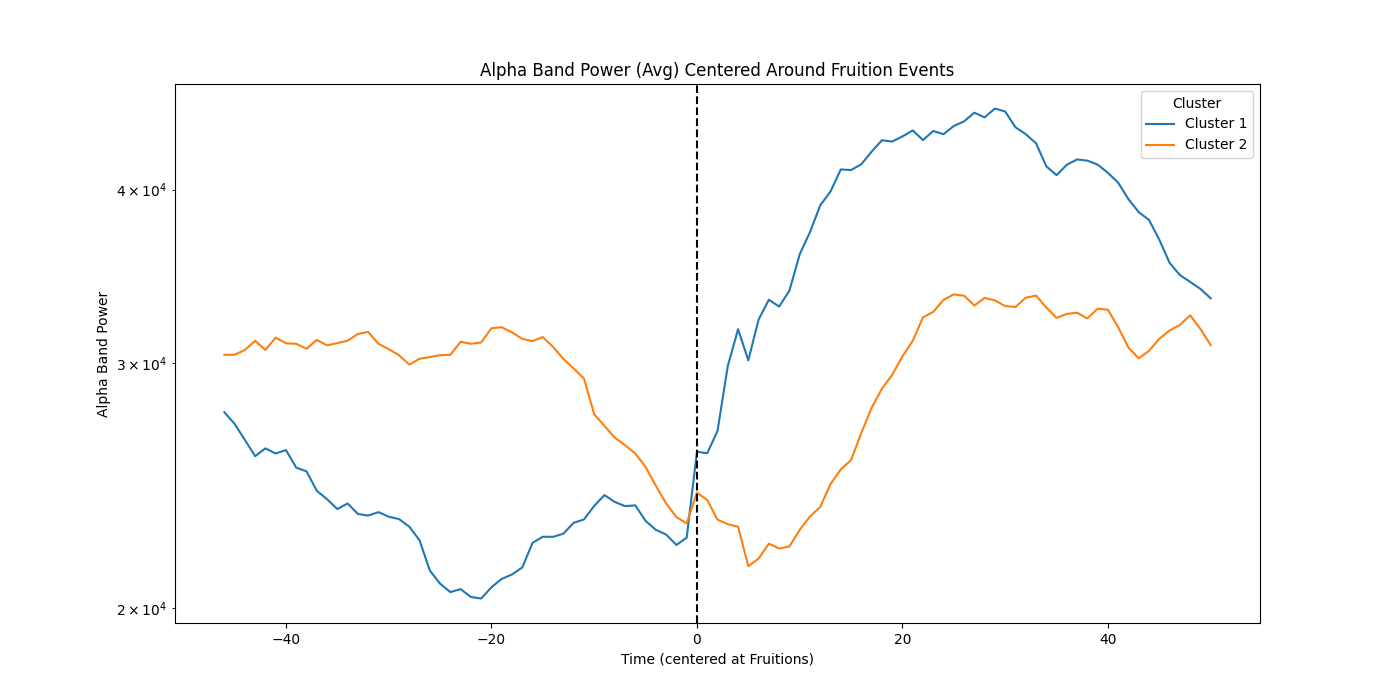
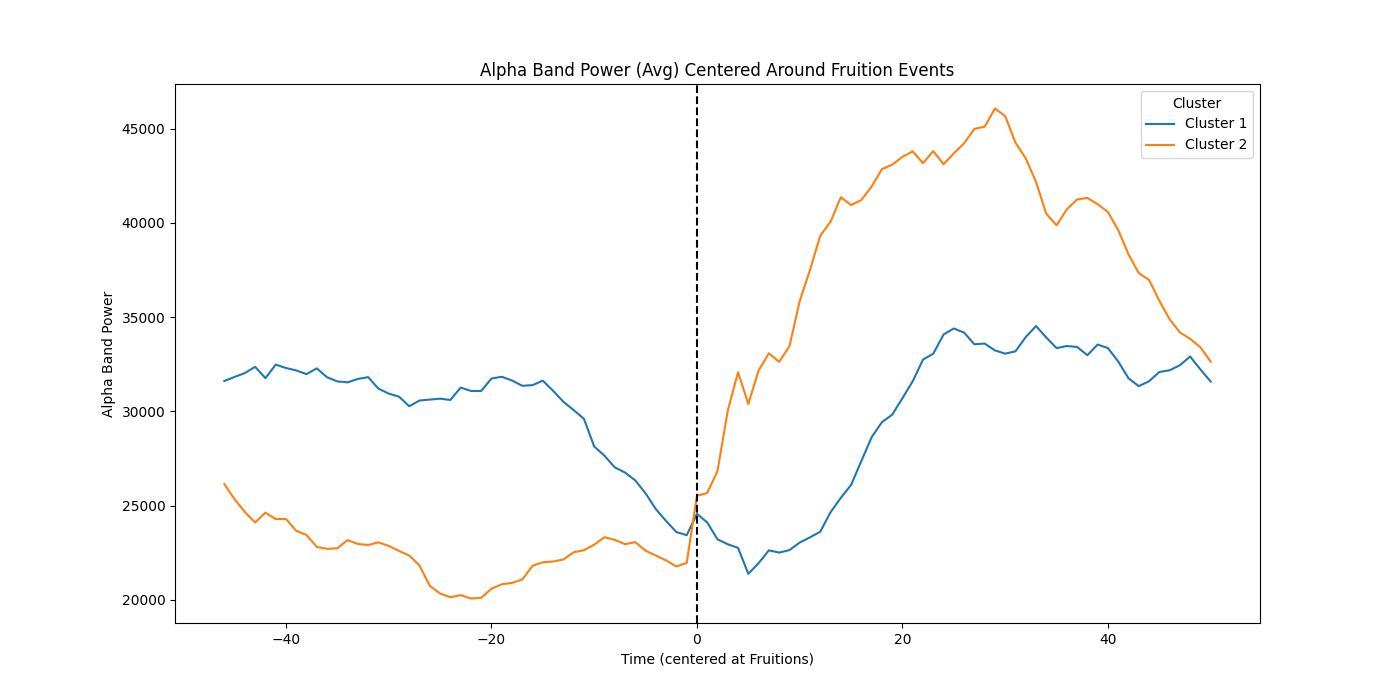
image fix

diff --git a/README.md b/README.md
@@ -35,7 +35,7 @@ Alpha power reliably changes in the seconds before and after Fruitions. Chowdhur
 
 ![Study Results](images/study_alpha_annotated.png)
 
-The new dataset from Daniel appears to have this same behavior, but only for some Fruitions. The graph below plots two distinct behaviors of Alpha power around Fruitions. Cluster 2 behaves identically to the result study results, with an increase followed by a decrease then a recovery. A second distinct behavior (Cluster 1) starts out with low Alpha power then dramatically increases afterward. Both behaviors show reliable increases in Alpha power following Fruitions.
+The new dataset from Daniel appears to have this same behavior, but only for some Fruitions. The graph below plots two distinct behaviors of Alpha power around Fruitions. Cluster 1 behaves identically to the result study results, with an increase followed by a decrease then a recovery. A second distinct behavior (Cluster 2) starts out with low Alpha power then dramatically increases afterward. Both behaviors show reliable increases in Alpha power following Fruitions.
 
 ![Alpha Band Behavior](images/alpha_band_changes.png)
 
